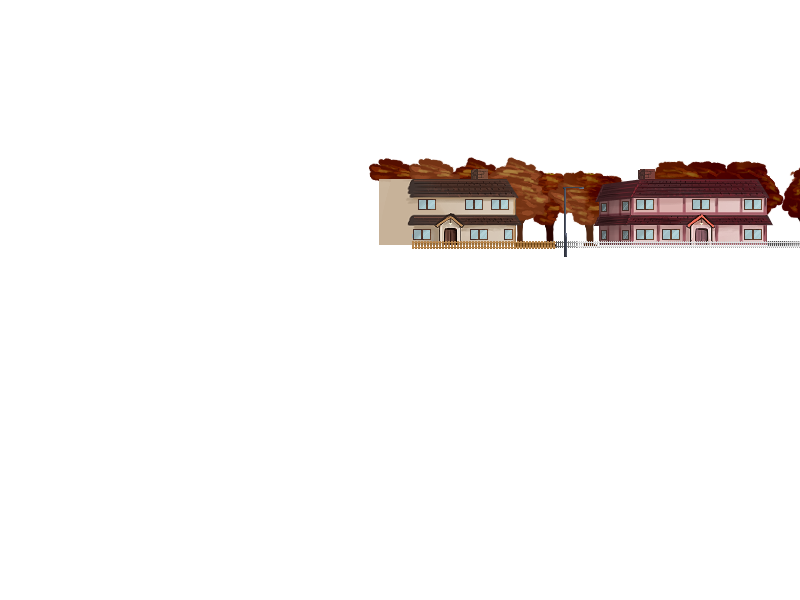
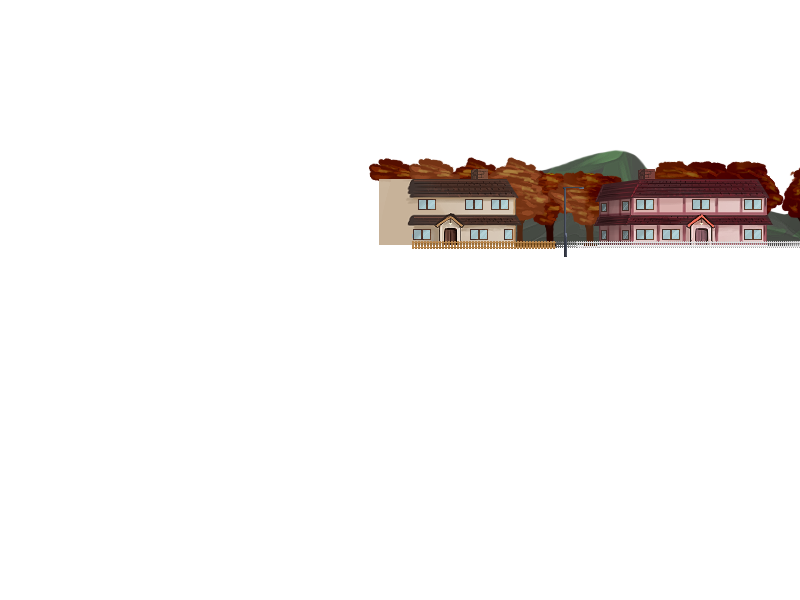
Add stars and mountains

Changed region(s): [[0.625, 0.33, 0.75, 0.42], [0.6875, 0.24, 0.8125, 0.3], [0.9375, 0.36, 1.0, 0.42]]

diff --git a/js/ui.js b/js/ui.js
@@ -742,6 +742,8 @@ function WindowUI( stage, gameState ){
 	var houses = new createjs.Bitmap( "res/screens/Window/Housefar.png" );
 	var streetLight = new createjs.Bitmap( "res/screens/Window/StreetlightGlow.png" );
 	streetLight.alpha = 0;
+	var stars = new createjs.Bitmap( "res/screens/Window/Stars.png" );
+	stars.alpha = 0;
 
 	var treeAnimations = { rustle:{ frames:[0,1,2,3,4,5,6,7,8,9,10,11,12,13,14,15,16,17], next:false } };
 	var data = {
@@ -763,18 +765,17 @@ function WindowUI( stage, gameState ){
     stage.addChild( dayNight );
     stage.addChild( ground );
     stage.addChild( houses );
+    stage.addChild( stars );
     stage.addChild( animation );
     stage.addChild( mood );
 
     for( var i in smallWindows ){
     	smallWindows[i].visible = UtilityFunctions.randRange(0,1);
-    	streetLight.alpha= 1;
     	stage.addChild( smallWindows[i] );
     }
 
     for( var i in windows ){
     	windows[i].visible = UtilityFunctions.randRange(0,1);
-    	streetLight.alpha= 1;
     	stage.addChild( windows[i] );
     }
     stage.addChild( streetLight );
@@ -804,6 +805,7 @@ return {
 
 				// turn on random window lights
 				streetLight.alpha= 1;
+				stars.alpha = 1;
 			}
 			else if( dayNight.x < -11687 ){
 				for( var i in smallWindows ){
@@ -813,6 +815,7 @@ return {
 					windows[i].visible = UtilityFunctions.randRange(0,1);
 				}
 				streetLight.alpha= 1;
+				stars.alpha = 1;
 			}
 			// daytime, turn off all lights
 			else{
@@ -824,6 +827,7 @@ return {
 				}
 
 				streetLight.alpha= 0;
+				stars.alpha = 0;
 			}
 		}
 

diff --git a/js/main.js b/js/main.js
@@ -246,6 +246,7 @@ function GameState(){
     queue.loadFile( {id: "res/screens/Window/Win11.png", src:"res/screens/Window/Win11.png"});
     queue.loadFile( {id: "res/screens/Window/Tree_Animation.png", src:"res/screens/Window/Tree_Animation.png"});
     queue.loadFile( {id: "res/screens/Window/Test4TransparencyFull.png", src:"res/screens/Window/Test4TransparencyFull.png"});
+    queue.loadFile( {id: "res/screens/Window/Stars.png", src:"res/screens/Window/Stars.png"});
 
 
 
